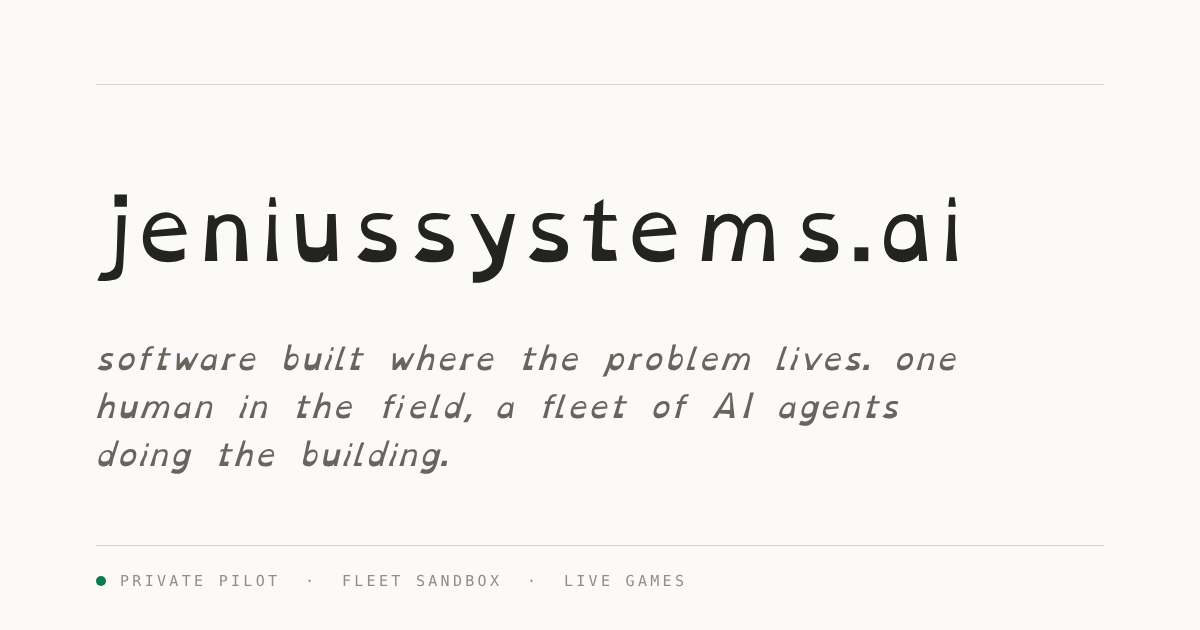
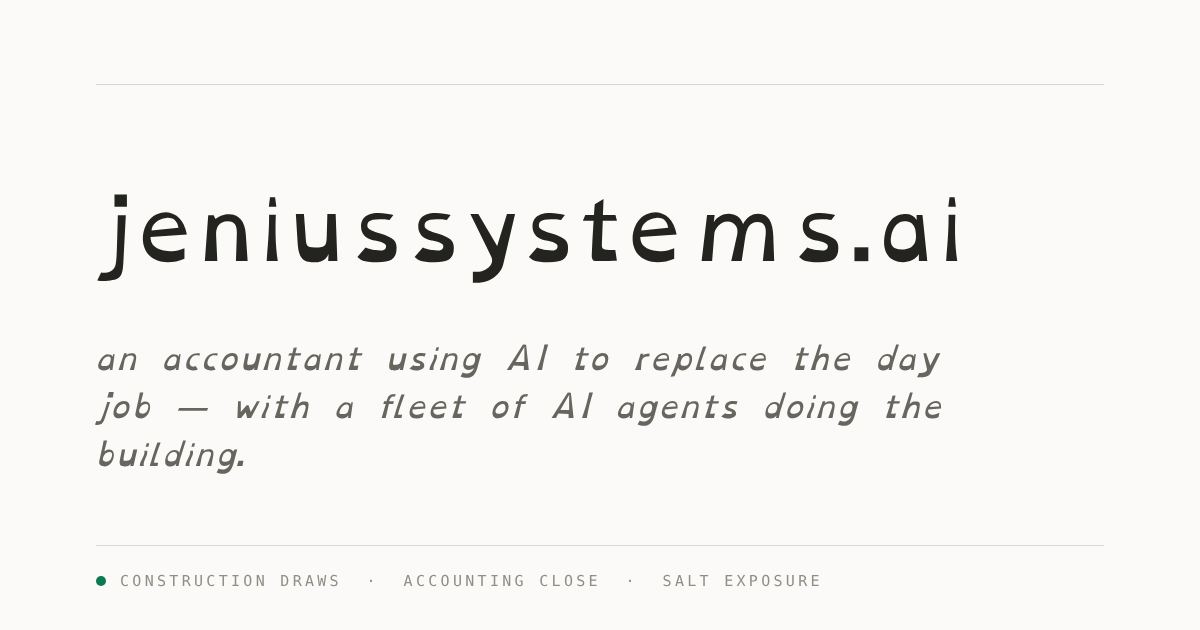
hub: reframe around an accounting manager who builds; add close + SALT builds
- hero and copy rewritten: a showcase of work, not a pitch or a resume
- add 'accounting close' and 'SALT exposure' as IN BUILD entries
- sections renamed: 'the day-to-day, automated' and 'off the clock'
- drop the invented field-deployment copy; construction/fleet blurbs restored
- llms.txt, README, social card updated to match

Claude-Session: https://claude.ai/code/session_01PDQy1Xtk71hLfLZS1UzQ1J

Changed region(s): [[0.0617, 0.5429, 0.8017, 0.6937], [0.0925, 0.9048, 0.6783, 0.9349], [0.0617, 0.6937, 0.37, 0.754]]

diff --git a/index.html b/index.html
@@ -9,20 +9,20 @@
 <meta name="referrer" content="strict-origin-when-cross-origin">
 <meta name="theme-color" content="#fbfaf8">
 
-<title>jeniussystems.ai — software built where the problem lives</title>
-<meta name="description" content="One human, forward-deployed, with a fleet of AI agents doing the building: a construction-finance platform running as a private pilot on the client's own hardware, a self-hosted agent fleet, and two live living-room games.">
+<title>jeniussystems.ai — an accountant using AI to replace the day job</title>
+<meta name="description" content="An accountant with a real estate private equity background, using AI to replace the day-to-day work: construction draw management in private pilot, accounting close automation and a state and local tax exposure app in build, plus a self-hosted agent fleet and two live games.">
 
 <meta property="og:type" content="website" />
 <meta property="og:site_name" content="jeniussystems.ai" />
 <meta property="og:title" content="jeniussystems.ai" />
-<meta property="og:description" content="software built where the problem lives. one human in the field, a fleet of AI agents doing the building." />
+<meta property="og:description" content="an accountant with a real estate private equity background, using AI to replace my own day-to-day work." />
 <meta property="og:url" content="https://jeniussystems.ai/" />
 <meta property="og:image" content="https://jeniussystems.ai/assets/og.png" />
 <meta property="og:image:width" content="1200" />
 <meta property="og:image:height" content="630" />
 <meta name="twitter:card" content="summary_large_image" />
 <meta name="twitter:title" content="jeniussystems.ai" />
-<meta name="twitter:description" content="software built where the problem lives. one human in the field, a fleet of AI agents doing the building." />
+<meta name="twitter:description" content="an accountant with a real estate private equity background, using AI to replace my own day-to-day work." />
 <meta name="twitter:image" content="https://jeniussystems.ai/assets/og.png" />
 
 <link rel="icon" type="image/png" sizes="512x512" href="/assets/favicon.png" />
@@ -40,7 +40,7 @@
       "@id": "https://jeniussystems.ai/#org",
       "name": "jenius Systems",
       "url": "https://jeniussystems.ai/",
-      "description": "A one-operator AI-systems studio that works forward-deployed: one human goes to the problem and sets direction, a fleet of AI agents designs, builds, and reviews the software.",
+      "description": "A one-operator AI-systems studio run by an accountant with a real estate private equity background: one human who knows the finance work sets direction, a fleet of AI agents designs, builds, and reviews the software that automates it.",
       "logo": "https://jeniussystems.ai/assets/og.png"
     },
     {
@@ -64,55 +64,72 @@
 <main class="page">
 
   <header class="hero">
-    <p class="eyebrow">field log · one human + a fleet of AI agents</p>
+    <p class="eyebrow">field log · an accountant + a fleet of AI agents</p>
     <h1 class="wordmark">jeniussystems.ai</h1>
-    <p class="statement">software built where the problem&nbsp;lives.</p>
-    <p class="tagline">I go to the work, learn it from the people doing it, and ship into
-      the environment they already run — with a fleet of AI agents doing the building
-      behind me. still in pursuit of knowledge, with a little bit of&nbsp;fun.</p>
+    <p class="statement">I'm using AI to replace my own day&nbsp;job.</p>
+    <p class="tagline">accountant by training, real estate private equity by background.
+      I know where the hours go because I've spent them — so I build the software that
+      takes them back, with a fleet of AI agents doing the building. with a little
+      bit of&nbsp;fun.</p>
     <ul class="status" aria-label="Current status of everything listed">
       <li class="is-live">2 live</li>
       <li>1 private pilot</li>
+      <li>2 in build</li>
       <li>1 in rebuild</li>
     </ul>
   </header>
 
   <section id="field" class="section" aria-labelledby="field-h">
-    <h2 class="tiny-label" id="field-h">in the field</h2>
+    <h2 class="tiny-label" id="field-h">the day job, automated</h2>
     <ul class="builds">
 
       <li>
-        <p class="entry-no">01 · client deployment</p>
+        <p class="entry-no">01 · construction finance</p>
         <p class="build-line">
           <a href="/construction/">construction draw management</a>
           <span class="chip">PRIVATE PILOT</span>
         </p>
         <p class="build-desc">construction finance, penny-exact: pdf invoices in, approved
-          draw packages out. built around how the construction team already runs a draw,
-          not around how software would like them to.</p>
+          draw packages out. enterprise-level security, private by design — case
+          notes only.</p>
         <dl class="spec">
-          <div><dt>site</dt><dd>a real-estate investment firm's construction team</dd></div>
+          <div><dt>for</dt><dd>a real-estate investment firm's construction team</dd></div>
           <div><dt>runs on</dt><dd>docker, on hardware the firm controls — financial data never leaves it</dd></div>
           <div><dt>proof</dt><dd>800+ automated tests; money paths reviewed at the strictest tier</dd></div>
-          <div><dt>access</dt><dd>private by design — <a href="/construction/">case notes</a> only</dd></div>
         </dl>
       </li>
 
       <li>
-        <p class="entry-no">02 · home deployment</p>
+        <p class="entry-no">02 · accounting</p>
+        <p class="build-line">
+          <span class="build-name">accounting close</span>
+          <span class="chip">IN BUILD</span>
+        </p>
+        <p class="build-desc">close automation and tracking: the work of the accounting
+          close automated where it can be, and every step of it tracked in one place.</p>
+      </li>
+
+      <li>
+        <p class="entry-no">03 · state and local tax</p>
+        <p class="build-line">
+          <span class="build-name">SALT exposure</span>
+          <span class="chip">IN BUILD</span>
+        </p>
+        <p class="build-desc">state and local tax for an entire portfolio: quantifies the
+          exposure, organizes all the data behind it, and guides you on how to
+          reduce it.</p>
+      </li>
+
+      <li>
+        <p class="entry-no">04 · personal ops</p>
         <p class="build-line">
           <a href="/sandbox/">the fleet</a>
           <span class="chip">R&amp;D SANDBOX</span>
         </p>
-        <p class="build-desc">the first customer was me. a self-hosted fleet of AI agents —
-          mail, health, calendar, concierge and more — running my own day, which is where
-          I learn what breaks before it's anyone else's problem.</p>
-        <dl class="spec">
-          <div><dt>site</dt><dd>my own desk, my own data</dd></div>
-          <div><dt>runs on</dt><dd>self-hosted, behind one hardened gateway</dd></div>
-          <div><dt>state</dt><dd>being rebuilt for round two</dd></div>
-          <div><dt>access</dt><dd><a href="/sandbox/">the architecture tour</a> — it explains this better than I can in person</dd></div>
-        </dl>
+        <p class="build-desc">a self-hosted fleet of AI agents — mail, health, calendar,
+          concierge and more — behind one hardened gateway, being rebuilt for round two.
+          the tour explains what I've built and how it works better than I can in
+          person.</p>
       </li>
 
     </ul>
@@ -122,14 +139,14 @@
     <h2 class="tiny-label" id="method-h">how the work goes</h2>
     <ol class="method">
       <li>
-        <h3>start on site.</h3>
-        <p>the spec comes from watching the work get done. the people with the problem
-          are the product team.</p>
+        <h3>start with my own work.</h3>
+        <p>the roadmap is my own day job: the draw, the close, the tax exposure.
+          I'm the first user of everything here.</p>
       </li>
       <li>
-        <h3>build inside their walls.</h3>
-        <p>their hardware, their constraints, their data staying where it is. the
-          environment is a requirement, not an obstacle.</p>
+        <h3>the numbers have to tie.</h3>
+        <p>this is accounting. penny-exact or it isn't done, and every number
+          traces back to its source.</p>
       </li>
       <li>
         <h3>let the fleet build.</h3>
@@ -138,17 +155,16 @@
       </li>
       <li>
         <h3>say what's true.</h3>
-        <p>live means live. pilot means pilot. nothing here is for sale and there is
-          nothing to sign up for.</p>
+        <p>live means live. pilot means pilot. in build means not done yet. nothing
+          here is for sale.</p>
       </li>
     </ol>
   </section>
 
   <section id="builds" class="section" aria-labelledby="range-h">
-    <h2 class="tiny-label" id="range-h">the proving ground</h2>
-    <p class="section-note">games are where the fleet gets tested on the hard part:
-      real time, real people, a living room that will tell you immediately when it
-      isn't fun.</p>
+    <h2 class="tiny-label" id="range-h">off the clock</h2>
+    <p class="section-note">not everything is a workpaper. two games for the living room, built the
+      same way by the same fleet.</p>
     <ul class="builds">
 
       <li>

diff --git a/construction/index.html b/construction/index.html
@@ -51,13 +51,13 @@
   <nav class="crumb" aria-label="Breadcrumb"><a href="/">← jeniussystems.ai</a></nav>
 
   <header class="article-hero" id="notes">
-    <p class="meta">01 · CLIENT DEPLOYMENT <span class="chip">PRIVATE PILOT</span></p>
+    <p class="meta">01 · CONSTRUCTION FINANCE <span class="chip">PRIVATE PILOT</span></p>
     <h1>construction draw management</h1>
     <p class="lede">a construction-finance platform for a real-estate investment firm's
       construction team. invoices arrive as pdfs; what leaves is an approved, penny-exact,
       export-ready draw package.</p>
     <dl class="spec">
-      <div><dt>site</dt><dd>a real-estate investment firm's construction team</dd></div>
+      <div><dt>for</dt><dd>a real-estate investment firm's construction team</dd></div>
       <div><dt>runs on</dt><dd>docker, on hardware the firm controls</dd></div>
       <div><dt>proof</dt><dd>800+ automated tests; money paths at the strictest review tier</dd></div>
     </dl>

diff --git a/assets/og-card.html b/assets/og-card.html
@@ -36,9 +36,9 @@
 <body>
   <div class="rule-t"></div>
   <h1>jeniussystems.ai</h1>
-  <p class="tag">software built where the problem lives. one human in the field,
-    a fleet of AI agents doing the building.</p>
+  <p class="tag">an accountant using AI to replace the day job —
+    with a fleet of AI agents doing the building.</p>
   <div class="rule-b"></div>
-  <p class="meta"><span class="dot"></span>PRIVATE PILOT&nbsp;&nbsp;·&nbsp;&nbsp;FLEET SANDBOX&nbsp;&nbsp;·&nbsp;&nbsp;LIVE GAMES</p>
+  <p class="meta"><span class="dot"></span>CONSTRUCTION DRAWS&nbsp;&nbsp;·&nbsp;&nbsp;ACCOUNTING CLOSE&nbsp;&nbsp;·&nbsp;&nbsp;SALT EXPOSURE</p>
 </body>
 </html>

diff --git a/assets/hub.css b/assets/hub.css
@@ -70,7 +70,7 @@ a:hover { text-decoration-color: var(--ink); }
   font-size: clamp(1.25rem, 3.6vw, 1.7rem);
   line-height: 1.4;
   margin-top: 26px;
-  max-width: 24ch;
+  max-width: 26ch;
   padding-left: 16px;
   border-left: 3px solid var(--live);
 }
@@ -155,7 +155,7 @@ a:hover { text-decoration-color: var(--ink); }
 .builds > li { padding: 26px 0; border-bottom: 1px solid var(--hairline); }
 .builds > li:first-child { border-top: 1px solid var(--hairline); }
 .build-line { display: flex; align-items: baseline; flex-wrap: wrap; gap: 12px; }
-.build-line a {
+.build-line a, .build-name {
   font-family: var(--od);
   font-size: 1.12rem;
   line-height: 1.4;

diff --git a/README.md b/README.md
@@ -7,7 +7,7 @@ main deploys). No build step — every file here is served as-is.
 
 | Path | What it is |
 | --- | --- |
-| `/` (`index.html` + `assets/hub.css`) | Landing page: OpenDyslexic wordmark + statement, then three sections — "in the field" (deployments with spec sheets), "how the work goes" (method), "the proving ground" (games). Zero JS. |
+| `/` (`index.html` + `assets/hub.css`) | Landing page: OpenDyslexic wordmark + statement, then three sections — "the day job, automated" (finance builds), "how the work goes" (method), "off the clock" (games). Zero JS. |
 | `/construction/` | construction draw management — case notes (app at construction.jeniussystems.ai, behind Cloudflare Access; login link only). |
 | `/sandbox/` | The fleet architecture overview (the pre-2026-08 site; body untouched, head/nav adapted — its pinned inline-script hash is byte-identical). |
 | `/data/fleet.json` | **Contract path** — written by a private roster-sync pipeline that lives outside this repo. Must stay at the repo root; `/sandbox/` fetches it absolutely. |
@@ -15,8 +15,8 @@ main deploys). No build step — every file here is served as-is.
 
 ## Adding a build
 
-1. Copy the commented `TEMPLATE` `<li>` block in `index.html` into the right `.builds` list: "in the field" for real deployments (add an `.entry-no` line and a `.spec` list — site / runs on / proof / access), "the proving ground" for games and experiments. Update the counts in the hero `.status` strip.
-2. Pick an honest status chip: `LIVE` (add class `chip-live`), `PRIVATE PILOT`, `R&D SANDBOX`, or similar-but-true.
+1. Copy the commented `TEMPLATE` `<li>` block in `index.html` into the right `.builds` list: "the day job, automated" for finance/ops builds (add an `.entry-no` line; a `.spec` list is optional; use `<span class="build-name">` instead of a link while there is no page), "off the clock" for games. Update the counts in the hero `.status` strip.
+2. Pick an honest status chip: `LIVE` (add class `chip-live`), `PRIVATE PILOT`, `IN BUILD`, `R&D SANDBOX`, or similar-but-true.
 3. Add it to the JSON-LD list in `index.html` and to `llms.txt`; add the URL to `sitemap.xml` if it gets its own page here.
 4. Voice: lowercase, personal, one or two sentences — claim only what's real.
 
